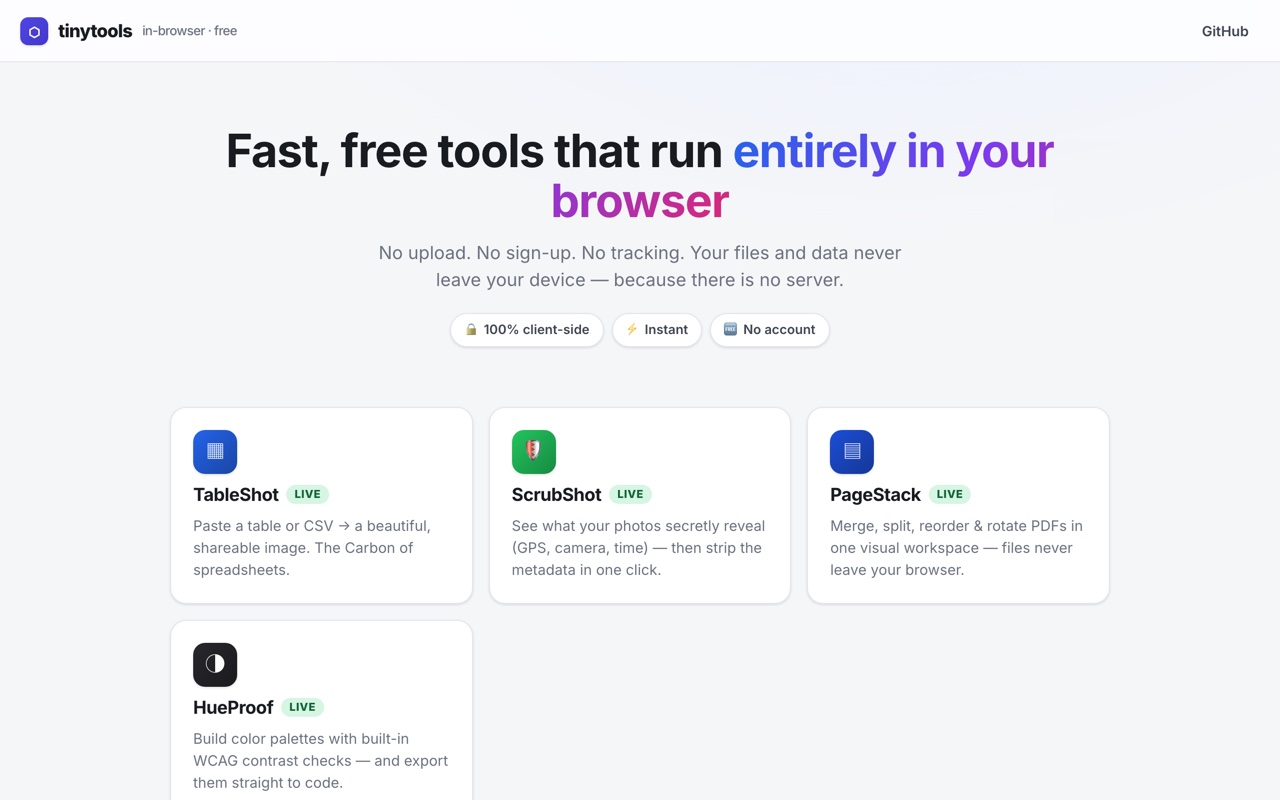
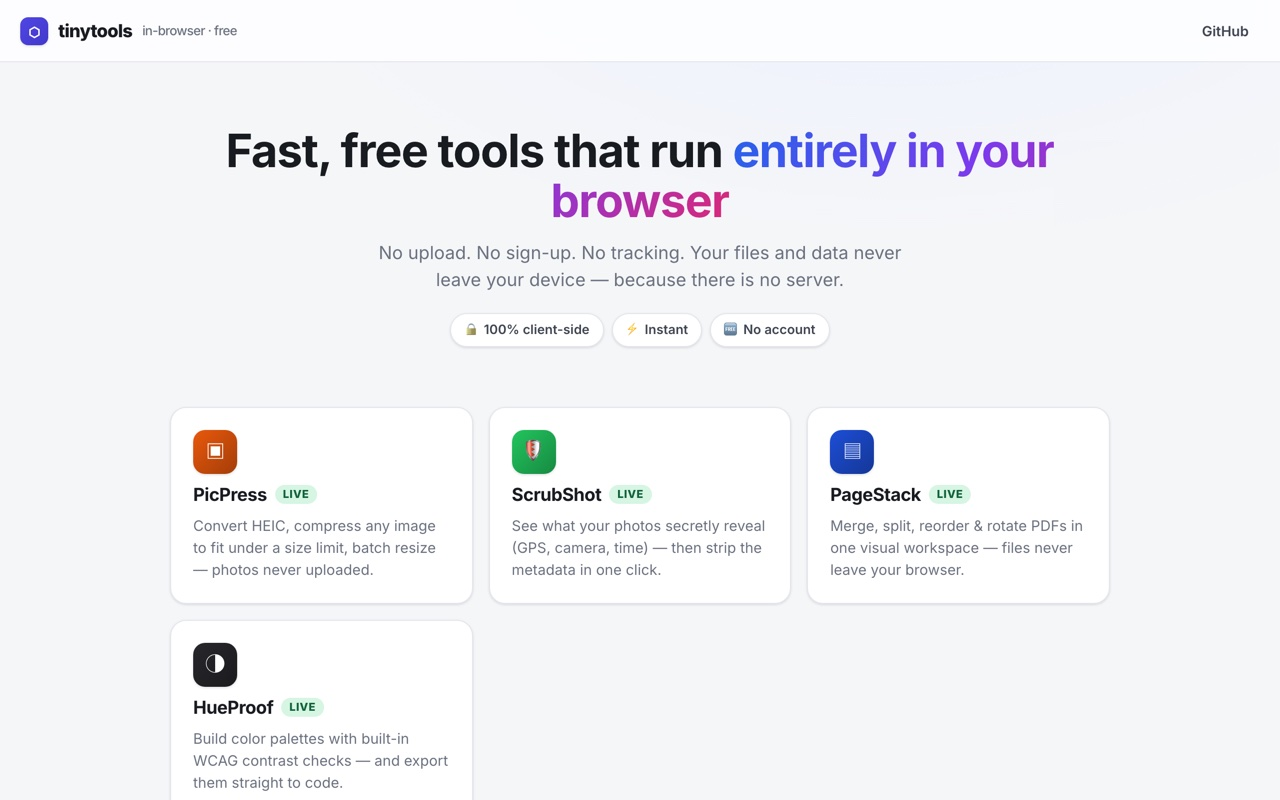
feat: sync tinytools card with new lineup (PicPress replaces TableShot)

Changed region(s): [[0.125, 0.5312, 0.3438, 0.7188]]

diff --git a/index.html b/index.html
@@ -130,7 +130,7 @@
                     <h3>tinytools</h3>
                     <p>
                         Four free tools that run entirely in the browser — nothing ever leaves
-                        your device. TableShot turns CSVs into shareable images, ScrubShot strips
+                        your device. PicPress converts and compresses images, ScrubShot strips
                         photo metadata, PageStack edits PDFs, HueProof builds WCAG-checked palettes.
                     </p>
                     <p class="feature-links">
